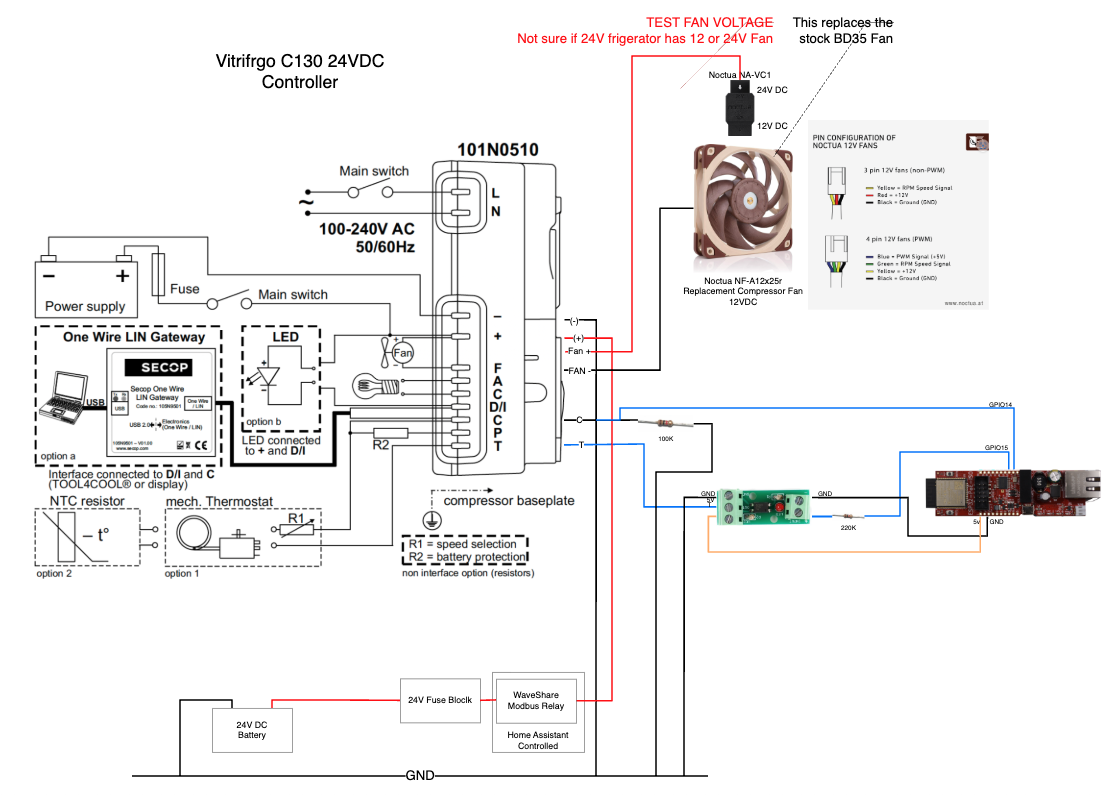
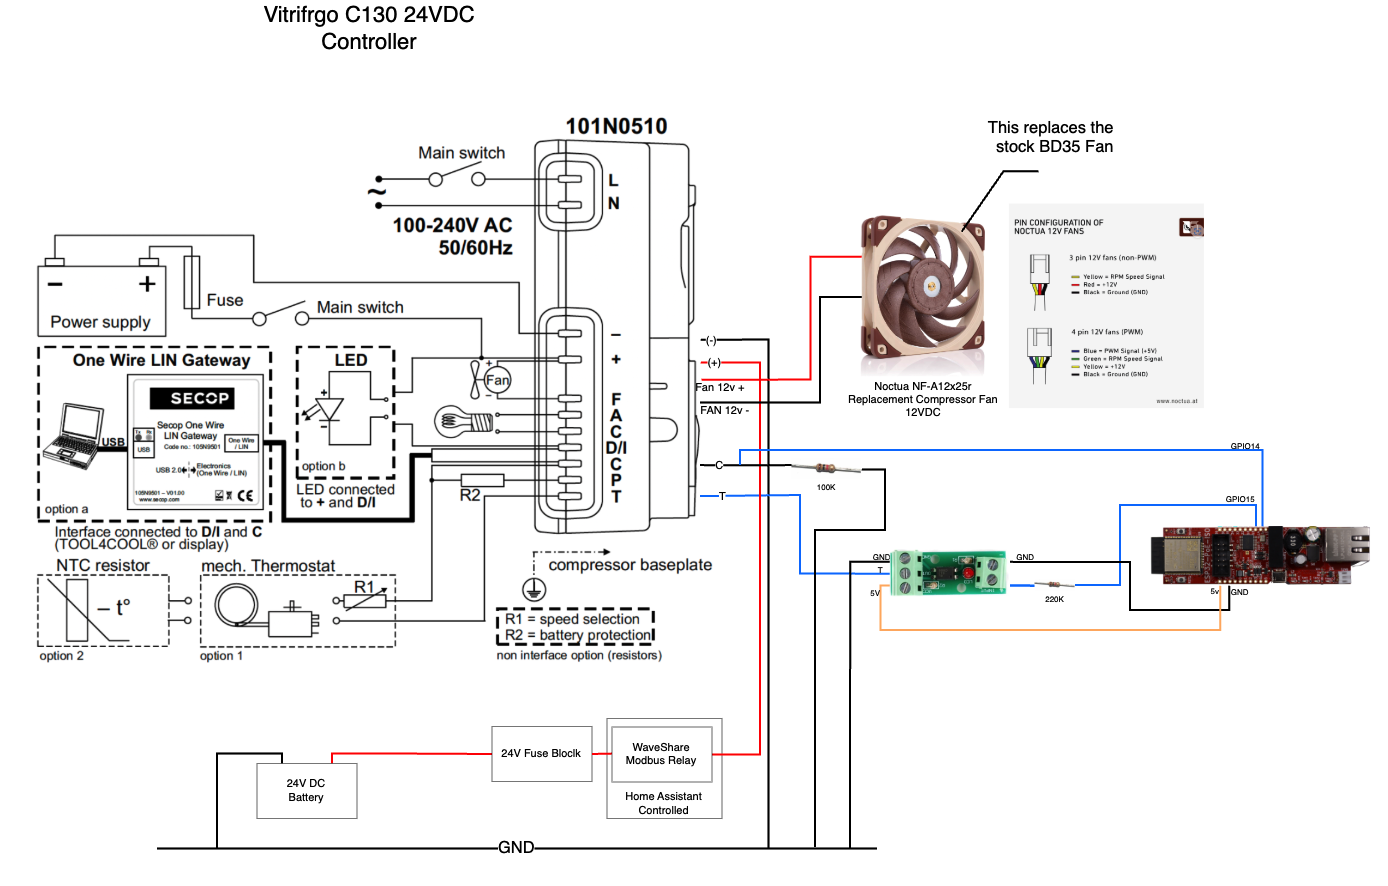
Update wiring diagram pic and nots

diff --git a/README.md b/README.md
@@ -59,6 +59,16 @@ refrigerator, integrating Home Assistant and an ESP32.
 
 ## Wiring Diagram
 
+| ESP32  |  Resistor | Optocoupler      | BD35       |
+|--------|-----------|------------------|------------|
+| GPIO5  | 220kΩ     | Positive (Input) |            |
+| GND    |           | Negative (Input) |            |
+| 5V     |           | VCC (Output)     |            |
+|        |           | GND (Output)     | GND        |
+|        |           | OUT (Output)     | T Terminal |
+| GPIO14 |           |                  | C Terminal |
+|        | 100kΩ     |                  | C Terminal |
+
 ![Wiring Diagram](ESP32_BD35_Controller.png)
 
 ## Configuration Instructions
